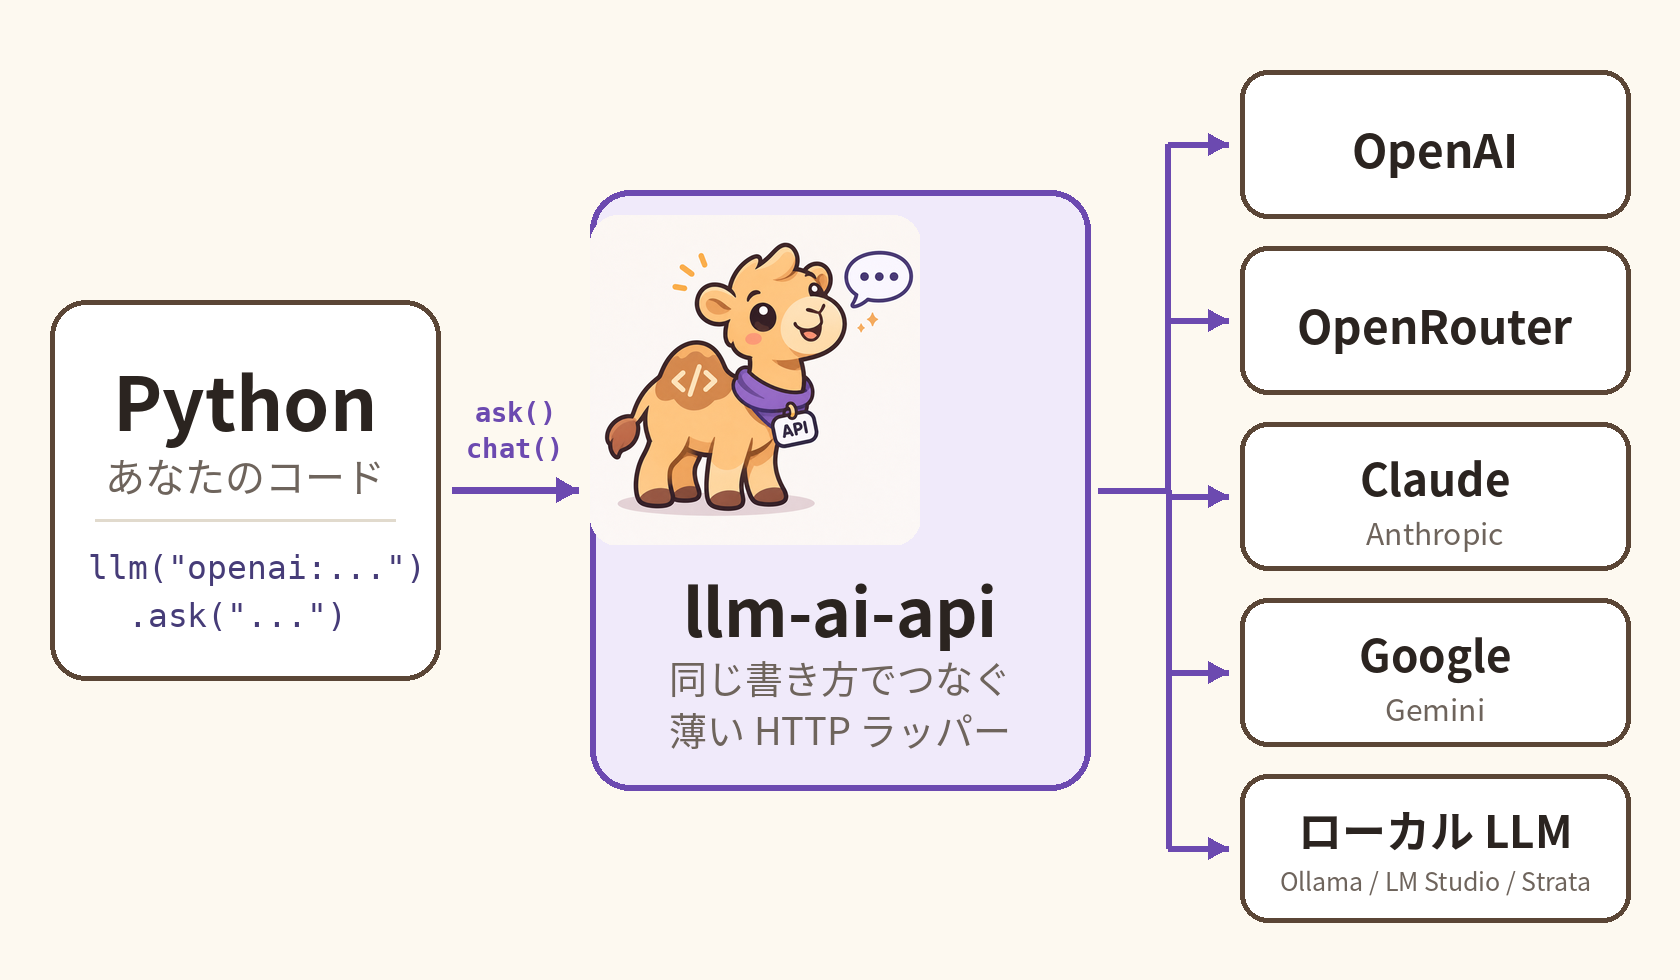
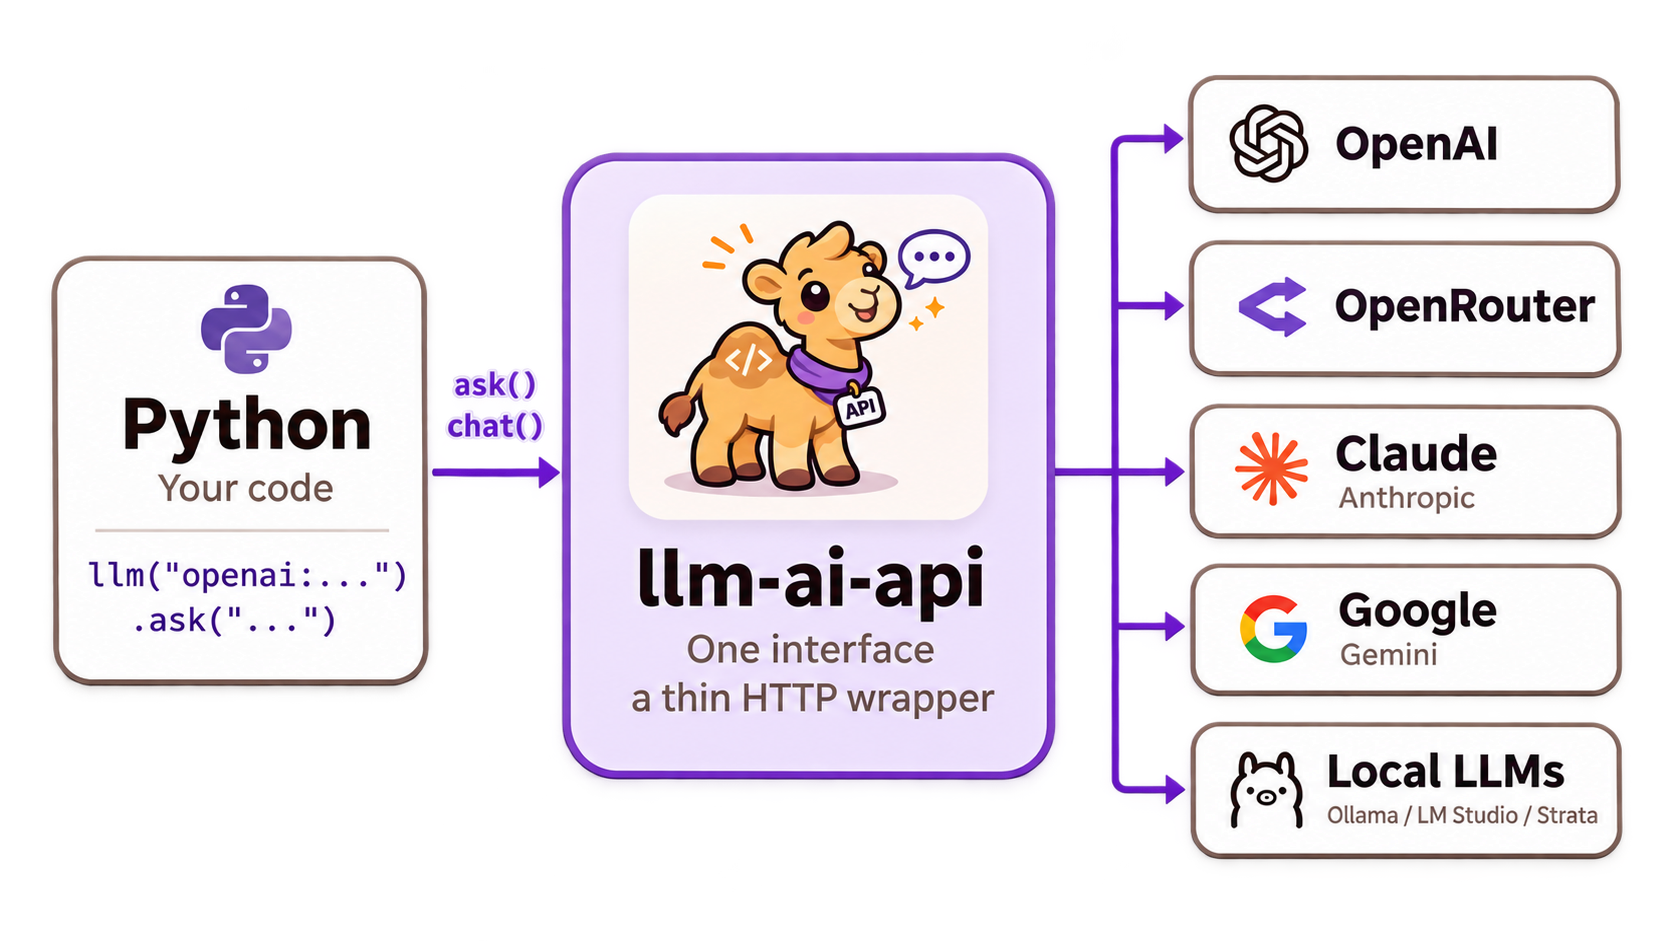
冒頭の図を差し替え、日英で共通の1枚にする
- 図はクジラさん提供の版（各プロバイダーのロゴ入り、透過背景）に差し替え
- 英語版の図（how-it-works-en.png）は廃止し、日英とも同じ
  how-it-works.png を参照する
- 図の中にマスコットが入っているため、先頭のマスコット単体の表示は外し、
  冒頭は図1枚にまとめた（マスコット原画 docs/images/mascot.png は残す）

Changed region(s): [[0.0311, 0.0616, 0.9952, 0.9554], [0.9641, 0.0925, 0.9952, 0.2157]]

diff --git a/README.md b/README.md
@@ -1,7 +1,3 @@
-<p align="center">
-  <img src="https://raw.githubusercontent.com/kujirahand/llm-ai-api-python/main/docs/images/mascot.png" width="180" alt="The llm-ai-api mascot">
-</p>
-
 # llm-ai-api
 
 [![PyPI](https://img.shields.io/pypi/v/llm-ai-api)](https://pypi.org/project/llm-ai-api/)
@@ -12,7 +8,7 @@ A thin HTTP wrapper that calls the OpenAI, OpenRouter, Claude (Anthropic), and G
 [日本語版 (Japanese)](https://github.com/kujirahand/llm-ai-api-python/blob/main/README-ja.md) | [Tutorial](https://github.com/kujirahand/llm-ai-api-python/blob/main/docs/tutorial.md) | [All documents](https://github.com/kujirahand/llm-ai-api-python/blob/main/docs/README.md)
 
 <p align="center">
-  <img src="https://raw.githubusercontent.com/kujirahand/llm-ai-api-python/main/docs/images/how-it-works-en.png" width="720" alt="How it works: from your Python code, through llm-ai-api, to OpenAI / OpenRouter / Claude / Google / local LLMs">
+  <img src="https://raw.githubusercontent.com/kujirahand/llm-ai-api-python/main/docs/images/how-it-works.png" width="720" alt="How it works: from your Python code, through llm-ai-api, to OpenAI / OpenRouter / Claude / Google / local LLMs">
 </p>
 
 ## Features

diff --git a/CHANGELOG.md b/CHANGELOG.md
@@ -2,7 +2,7 @@
 
 ## Unreleased
 
-- Reorganize the READMEs around a quick start and provider table, and add the project mascot and a how-it-works diagram to the README header.
+- Reorganize the READMEs around a quick start and provider table, and add a how-it-works diagram featuring the project mascot to the README header.
 
 ## 0.6.2
 

diff --git a/README-ja.md b/README-ja.md
@@ -1,7 +1,3 @@
-<p align="center">
-  <img src="https://raw.githubusercontent.com/kujirahand/llm-ai-api-python/main/docs/images/mascot.png" width="180" alt="llm-ai-api のマスコットキャラクター">
-</p>
-
 # llm-ai-api
 
 [![PyPI](https://img.shields.io/pypi/v/llm-ai-api)](https://pypi.org/project/llm-ai-api/)
